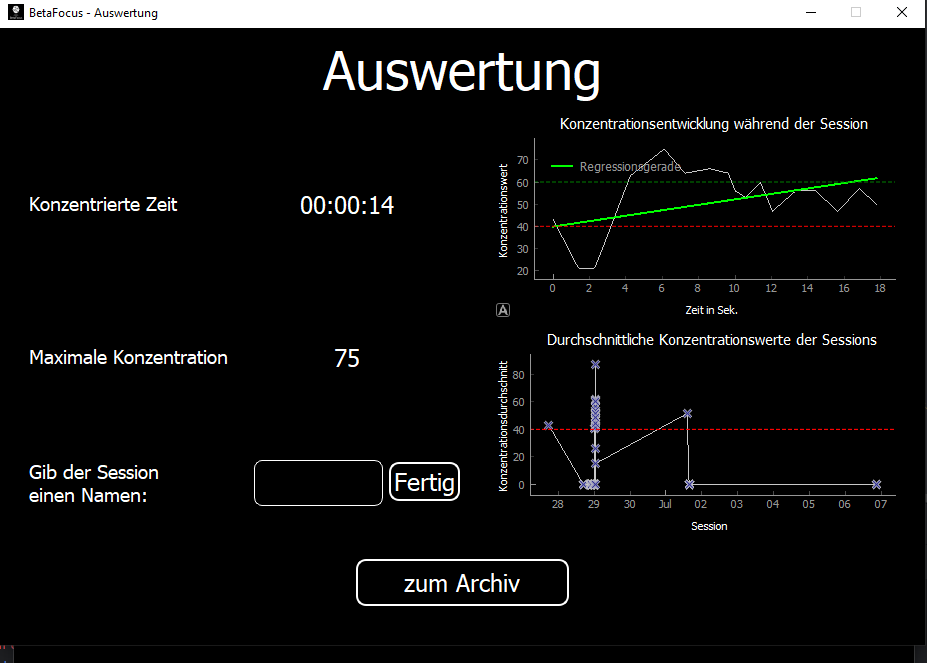
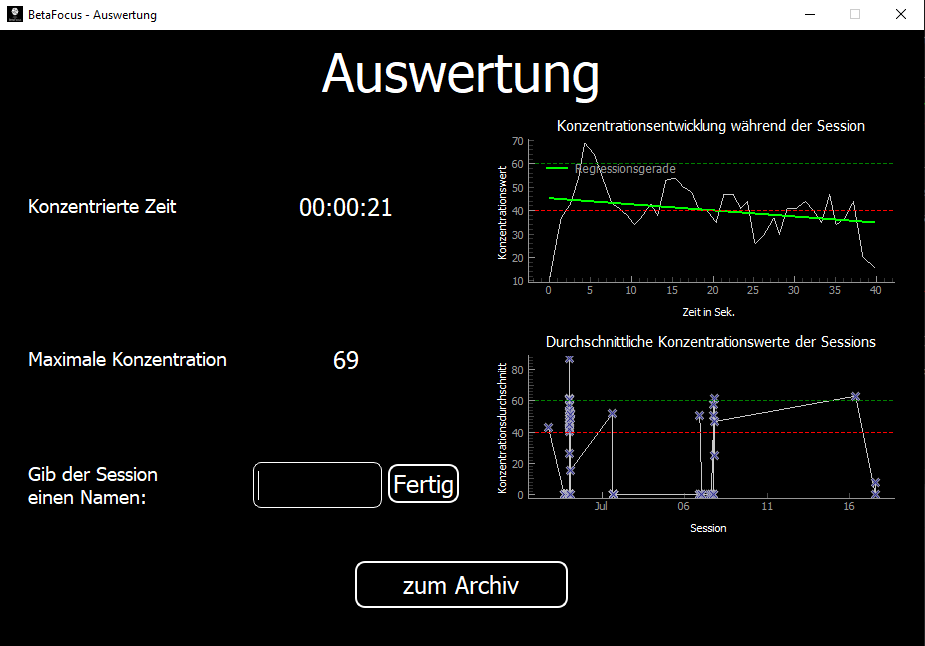
v1.0: Fixed images missing when starting python project from console + fixed second plot in window.

diff --git a/BetaFocus/src/gui/ui/ui_runwindow.py b/BetaFocus/src/gui/ui/ui_runwindow.py
@@ -5,6 +5,7 @@
 ##
 ## WARNING! All changes made in this file will be lost when recompiling UI file!
 ################################################################################
+import os.path
 
 from PyQt5.QtCore import *  # type: ignore
 from PyQt5.QtGui import *  # type: ignore
@@ -12,6 +13,9 @@ from PyQt5.QtWidgets import *  # type: ignore
 
 
 class Ui_RunWindow(object):
+
+    image_path = os.path.join(os.path.dirname(__file__), "images")
+
     def setupUi(self, RunWindow):
         if not RunWindow.objectName():
             RunWindow.setObjectName(u"RunWindow")
@@ -35,7 +39,7 @@ class Ui_RunWindow(object):
         self.pause_button.setSizePolicy(sizePolicy)
         self.pause_button.setMinimumSize(QSize(120, 120))
         self.pause_button.setMaximumSize(QSize(120, 120))
-        self.pause_button.setStyleSheet(u"image: url(./gui/images/pause.png);")
+        self.pause_button.setStyleSheet(u"image: url(images:pause.png);")
 
         self.gridLayout.addWidget(self.pause_button, 5, 3, 1, 1)
 
@@ -45,7 +49,7 @@ class Ui_RunWindow(object):
         self.resume_button.setSizePolicy(sizePolicy)
         self.resume_button.setMinimumSize(QSize(120, 120))
         self.resume_button.setMaximumSize(QSize(120, 120))
-        self.resume_button.setStyleSheet(u"image: url(./gui/images/start.png);")
+        self.resume_button.setStyleSheet(f"image: url(images:start.png);")
 
         self.gridLayout.addWidget(self.resume_button, 5, 3, 1, 1)
 
@@ -83,7 +87,7 @@ class Ui_RunWindow(object):
         self.stop_button.setSizePolicy(sizePolicy)
         self.stop_button.setMinimumSize(QSize(120, 120))
         self.stop_button.setMaximumSize(QSize(120, 120))
-        self.stop_button.setStyleSheet(u"image: url(./gui/images/stop.png);")
+        self.stop_button.setStyleSheet(u"image: url(images:stop.png);")
 
         self.gridLayout.addWidget(self.stop_button, 5, 1, 1, 1)
 

diff --git a/BetaFocus/src/gui/controller.py b/BetaFocus/src/gui/controller.py
@@ -222,7 +222,7 @@ class Controller:
         inf_line2 = pyqtgraph.InfiniteLine(pos=(0, session.get_upper()), angle=0, movable=False, pen=green_pen)
 
         inf_line3 = pyqtgraph.InfiniteLine(pos=(0, session.get_lower()), angle=0, movable=False, pen=red_pen)
-        inf_line4 = pyqtgraph.InfiniteLine(pos=(0, session.get_lower()), angle=0, movable=False, pen=red_pen)
+        inf_line4 = pyqtgraph.InfiniteLine(pos=(0, session.get_upper()), angle=0, movable=False, pen=green_pen)
 
         # top canvas
         x = session.get_x_vals()
@@ -242,11 +242,14 @@ class Controller:
         eval_window.plotWidget1.addItem(inf_line1, ignoreBounds=False)
         eval_window.plotWidget1.addItem(inf_line2, ignoreBounds=False)
         eval_window.plotWidget1.plotItem.autoRange()
+        eval_window.plotWidget1.plotItem.getViewBox().setLimits(yMin=-20, yMax=120)
+
         # bottom canvas
         eval_window.plotWidget2.plot(self.archive.get_x_data(), self.archive.get_mean_vals(), symbol='x')
         eval_window.plotWidget2.addItem(inf_line3, ignoreBounds=False)
         eval_window.plotWidget2.addItem(inf_line4, ignoreBounds=False)
         eval_window.plotWidget2.plotItem.autoRange()
+        eval_window.plotWidget2.plotItem.getViewBox().setLimits(yMin=-20, yMax=120)
 
         eval_window.max_label.setText(str(session.get_max()))
         eval_window.show()

diff --git a/BetaFocus/src/gui/ui/ui_mainwindow.py b/BetaFocus/src/gui/ui/ui_mainwindow.py
@@ -91,7 +91,7 @@ class Ui_MainWindow(object):
         font1 = QFont()
         font1.setPointSize(25)
         self.start_button.setFont(font1)
-        self.start_button.setStyleSheet(u"image: url(./gui/images/start.png);\n"
+        self.start_button.setStyleSheet(u"image: url(images:start.png);\n"
                                         "padding-left: 20px;\n"
                                         "padding-top: 20px;\n"
                                         "padding-bottom: 50px;\n"

diff --git a/BetaFocus/src/main.py b/BetaFocus/src/main.py
@@ -1,3 +1,7 @@
+import os
+
+from PyQt5.QtCore import QDir
+
 from gui.view import App
 from gui.controller import Controller
 
@@ -9,4 +13,6 @@ def main():
 
 
 if __name__ == "__main__":
+    root = os.path.dirname(os.path.abspath(__file__))
+    QDir.addSearchPath('images', os.path.join(root, 'gui/images'))
     main()
